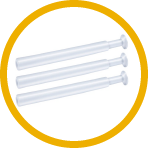
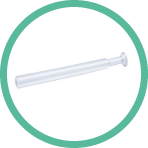
ajustes cliente

diff --git a/src/components/slideThree/PageOne.vue b/src/components/slideThree/PageOne.vue
@@ -30,8 +30,8 @@
     
     <div class="box-container">
       <svg class="curved-line" width="100" height="100" viewBox="0 0 100 100" fill="none" xmlns="http://www.w3.org/2000/svg" style="transform: translate(193%, -93%) scale(1.60);">
-        <path d="M20 80 V20 H90" stroke="#EEAF00" stroke-width="2" fill="transparent"/>
-        <circle cx="90" cy="20" r="5" fill="#EEAF00" stroke="#b68e22" stroke-width="2"/>
+        <path d="M20 80 V20 H90" stroke="#41bba9" stroke-width="2" fill="transparent"/>
+        <circle cx="90" cy="20" r="5" fill="#41bba9" stroke="#9dddd3" stroke-width="2"/>
       </svg>
       <div class="box">
         <img src="../../assets/beneficios-productos/icon13.png" alt="box3" class="box-image" />
@@ -55,15 +55,15 @@
         <p class="box-text"><strong>Alivia: <br> Mal olor</strong></p>
       </div>
       <svg class="" width="100" height="100" viewBox="0 0 100 100" fill="none" xmlns="http://www.w3.org/2000/svg" style="transform: translate(-293%, -96%) scale(1.6);">
-        <path d="M80 80 V20 H70" stroke="#EEAF00" stroke-width="2" fill="transparent"/>
-        <circle cx="70" cy="20" r="5" fill="#EEAF00" stroke="#b68e22" stroke-width="2"/>
+        <path d="M80 80 V20 H70" stroke="#41bba9" stroke-width="2" fill="transparent"/>
+        <circle cx="70" cy="20" r="5" fill="#41bba9" stroke="#9dddd3" stroke-width="2"/>
       </svg>
     </div>
 
     <div class="button-group">
-      <button @click="setActiveTab('benefits')">Beneficios</button>
-      <button @click="setActiveTab('usage')">Modo de uso</button>
-      <button @click="setActiveTab('composition')">Composición</button>
+      <button @click="setActiveTab('usage')">Modo de uso</button> <!-- Beneficios -->
+      <button @click="setActiveTab('benefits')">Recomendaciones</button> <!-- Modo de uso -->
+      <button @click="setActiveTab('composition')">Composición</button> <!-- Composición -->
     </div>
     <div v-if="activeTab" class="content-tab">
       <div class="tab-header">
@@ -74,10 +74,11 @@
         </button>
       </div>
 
-      <p v-if="activeTab === 'benefits'" class="text-tab">
-        INTIBON® 45+ Gel Hidratante íntimo que contiene ácido hialurónico, Vitamina E y un complejo hidratante, ayudan a brindar un efecto de hidratación y sensación de bienestar en tu zona íntima externa. <strong>No altera el pH fisiológico de la zona y no mancha la ropa interior.</strong>
+      <p v-if="activeTab === 'usage'" class="text-tab">
+        Aplicar un óvulo vaginal en la noche a la hora de acostarse, en administración única, introducido en la vagina profundamente, preferiblemente acostada. Si los síntomas persisten más de 3 días, se puede administrar un segundo óvulo vaginal. Si los síntomas persisten más allá de 7 días, se debe buscar consejo médico. Previsto para ser utilizado por mujeres adultas de 18 a 60 años.
       </p>
-      <p v-if="activeTab === 'usage'">Aplicar un óvulo vaginal en la noche a la hora de acostarse, en administración única, introducido en la vagina profundamente, preferiblemente acostada. Si los síntomas persisten más de 3 días, se puede administrar un segundo óvulo vaginal. Si los síntomas persisten más allá de 7 días, se debe buscar consejo médico. Previsto para ser utilizado por mujeres adultas de 18 a 60 años. <br><br><strong>Recomendaciones:</strong> Use Intibon Medical® óvulo vaginal durante 1 día. El óvulo vaginal debe aplicarse en la noche al acostarse a dormir. Intibon Medical® óvulo vaginal funcionará mejor sí usted no se levanta después de aplicarlo excepto para lavarse las manos. Usted puede usar una toalla higiénica mientras usa el óvulo vaginal para proteger su ropa de las manchas. No se deben usar tampones, duchas intravaginales, espermicidas u otros productos vaginales mientras se utilice este medicamento. No se recomienda iniciar el tratamiento durante la menstruación. El tratamiento debe haber finalizado antes del inicio de la menstruación. Mantenga este medicamento almacenado fuera del alcance de los niños.
+      <p v-if="activeTab === 'benefits'">
+        Use Intibon Medical® óvulo vaginal durante 1 día. El óvulo vaginal debe aplicarse en la noche al acostarse a dormir. Intibon Medical® óvulo vaginal funcionará mejor sí usted no se levanta después de aplicarlo excepto para lavarse las manos. Usted puede usar una toalla higiénica mientras usa el óvulo vaginal para proteger su ropa de las manchas. No se deben usar tampones, duchas intravaginales, espermicidas u otros productos vaginales mientras se utilice este medicamento. No se recomienda iniciar el tratamiento durante la menstruación. El tratamiento debe haber finalizado antes del inicio de la menstruación. Mantenga este medicamento almacenado fuera del alcance de los niños.
       </p>
       <p v-if="activeTab === 'composition'">Clotrimazol 500mg</p>
     </div>
@@ -219,7 +220,7 @@ export default {
   position: absolute;
   width: 94px;
   height: 2px;
-  background-color: #EEAF00;
+  background-color: #41BBA9;
   /* top: 50%;
   transform: translateY(-50%); */
 }
@@ -229,8 +230,8 @@ export default {
   position: absolute;
   width: 20px;
   height: 20px;
-  background-color: #EEAF00;
-  border: 2px solid #b68e22;
+  background-color: #41BBA9;
+  border: 2px solid #9dddd3;
   border-radius: 50%;
   top: 50%;
   transform: translateY(-50%);

diff --git a/src/components/slideTwo/PageOne.vue b/src/components/slideTwo/PageOne.vue
@@ -15,14 +15,14 @@
       <div class="image-container">
         <div class="container-item">
           <div class="box top-left" style="flex-direction: row; width: 302px;">
-            <p>Ayuda a lograr un efecto inmediato y duradero <strong>combatiendo los síntomas de la sequedad vulvovaginal.</strong></p>
-            <img src="../../assets/beneficios-productos/icon6.png" alt="Hidrosense" />
+            <p>Ayuda a brindar un efecto de hidratación y sensación de bienestar en tu zona íntima externa.</p>
+            <img src="../../assets/beneficios-productos/icon9.png" alt="Hidrosense" />
             <span class="line right"></span>
           </div>
 
           <div class="box top-left" style="flex-direction: row;">
             <p><strong>No altera el pH fisiológico </strong>de la zona vaginal y no mancha la ropa interior. No es agresivo al látex.</p>
-            <img src="../../assets/beneficios-productos/icon7.png" alt="Hidrosense" />
+            <img src="../../assets/beneficios-productos/icon6.png" alt="Hidrosense" />
             <span class="line right"></span>
           </div>
 
@@ -44,17 +44,17 @@
           </div>
 
           <div class="box top-right">
-            <img src="../../assets/beneficios-productos/icon10.png" alt="Sin Parabenos" />
+            <img src="../../assets/beneficios-productos/icon7.png" alt="Sin Parabenos" />
             <p>Libre de <strong>estrógenos, fragancias y parabenos.</strong></p>
             <span class="line left"></span>
           </div>
 
           <!-- Contenedor inferior derecho -->
-          <div class="box bottom-right">
-            <img src="../../assets/beneficios-productos/icon9.png" alt="No irrita ojos" /> <!-- style="transform: translate(3%, 5%) scale(1.30);" -->
+          <!-- <div class="box bottom-right">
+            <img src="../../assets/beneficios-productos/icon9.png" alt="No irrita ojos" />
             <p>Incluye 10 cánulas reutilizables: <strong>proceso suave y cómodo.</strong></p>
             <span class="line left"></span>
-          </div>
+          </div> -->
         </div>
       </div>
       <!-- Contenedor superior derecho -->
@@ -76,27 +76,14 @@
       </div>
 
       <p v-if="activeTab === 'benefits'" class="text-tab">
-        INTIBON® 45+ Gel Hidratante Vaginal  que contiene Ácido Hialurónico, Vitamina E y un complejo hidratante, que ayuda a lograr un efecto inmediato y duradero de hidratación combatiendo los síntomas de la sequedad vulvovaginal. No altera el pH fisiológico de la zona vaginal y no mancha la ropa interior. Es compatible con condones de látex.
+        INTIBON® 45+ Gel Hidratante íntimo contiene ácido hialurónico, Vitamina E y un complejo hidratante que ayudan a brindar un efecto de hidratación y sensación de bienestar en tu zona íntima externa. No altera el pH fisiológico de la zona y no mancha la ropa interior.
       </p>
-      <p v-if="activeTab === 'usage'"><strong>Lavar las manos antes y después del uso del producto.</strong><br>
-        <strong>Para uso en la zona vaginal:</strong> <br>   
-        <strong>1.</strong> Retira la tapa del tubo y el sello de seguridad. <br>
-        <strong>2.</strong> Toma una de las cánulas incluidas en el empaque. <br>
-        <strong>3.</strong> Enrosque la cánula en la boca del tubo. <br>
-        <strong>4.</strong> Retira la ropa interior. <br>
-        <strong>5.</strong> Hazte en una posición cómoda para ingresar el producto en la zona vaginal. <br>
-        <strong>6.</strong> Introduce la cánula en la vagina. <br>
-        <strong>7.</strong> Aprieta el tubo colapsible y aplica la cantidad deseada de gel hidratante en tu zona vaginal. <br>
-        <strong>8.</strong> Retira la cánula de la vagina. <br>
-        <strong>9.</strong> Desacopla la cánula del tubo vuelve a taparlo. <br>
-        <strong>10.</strong> Desecha la cánula. <br><br>
-        <strong>Para uso en la zona vulvar:</strong> <br>
-        <strong>1.</strong> Retire la tapa del tubo y el sello de seguridad. <br>
-        <strong>2.</strong> Aprieta el tubo colapsible y aplica la cantidad deseada de gel hidratante vaginal en tus dedos. <br>
-        <strong>3.</strong> Extiende el producto sobre la zona vulvar.<br>
-        <strong>4.</strong> Vuelve a tapar el tubo.
+      <p v-if="activeTab === 'usage'">
+        SOLO PARA USO EXTERNO. Retire la tapa del tubo y el sello de seguridad. Aprieta el tubo colapsible y aplica la cantidad deseada de gel hidratante íntimo en tus dedos. Extiende el producto sobre la zona vulvar. Vuelve a tapar el tubo.
       </p>
-      <p v-if="activeTab === 'composition'">Aqua (Water), Glycerin, Sodium Benzoate, Potassium Sorbate, Hydroxyethylcellulose, Aqua (Water) / Glycerin / Glyceryl Polyacrylate / Trehalose / Urea / Serine / Pentylene Glycol / Algin / Caprylyl Glycol / Sodium Hyaluronate / Pullulan / Disodium Phosphate / Potassium Phosphate, Sodium Hyaluronate, Tocopheryl Acetate, Lactic Acid.</p>
+      <p v-if="activeTab === 'composition'">
+        Water, Glycerin,Hydroxyethylcellulose, Water/Glycerin, Glyceryl Polyacrylate/Trehalose/Urea/Serine/Pentylene Glycol/Algin/Caprylyl Glycol/Sodium Hyaluronate/Pollulan/Disodium Phospate/Potassium Phospate, Sodium Hyaluronate, Sodium Benzoate, Potassium Sorbate, Tocopheryl Acetate, Lactic Acid.
+      </p>
     </div>
 
     <footer>

diff --git a/src/components/slideThree/PageTwo.vue b/src/components/slideThree/PageTwo.vue
@@ -30,8 +30,8 @@
     
     <div class="box-container">
       <svg class="curved-line" width="100" height="100" viewBox="0 0 100 100" fill="none" xmlns="http://www.w3.org/2000/svg" style="transform: translate(193%, -93%) scale(1.60);">
-        <path d="M20 80 V20 H90" stroke="#EEAF00" stroke-width="2" fill="transparent"/>
-        <circle cx="90" cy="20" r="5" fill="#EEAF00" stroke="#b68e22" stroke-width="2"/>
+        <path d="M20 80 V20 H90" stroke="#41bba9" stroke-width="2" fill="transparent"/>
+        <circle cx="90" cy="20" r="5" fill="#41bba9" stroke="#9dddd3" stroke-width="2"/>
       </svg>
       <div class="box">
         <img src="../../assets/beneficios-productos/icon13.png" alt="box3" class="box-image" />
@@ -55,8 +55,8 @@
         <p class="box-text"><strong>Alivia: <br> Mal olor</strong></p>
       </div>
       <svg class="" width="100" height="100" viewBox="0 0 100 100" fill="none" xmlns="http://www.w3.org/2000/svg" style="transform: translate(-293%, -96%) scale(1.6);">
-        <path d="M80 80 V20 H70" stroke="#EEAF00" stroke-width="2" fill="transparent"/>
-        <circle cx="70" cy="20" r="5" fill="#EEAF00" stroke="#b68e22" stroke-width="2"/>
+        <path d="M80 80 V20 H70" stroke="#41bba9" stroke-width="2" fill="transparent"/>
+        <circle cx="70" cy="20" r="5" fill="#41bba9" stroke="#9dddd3" stroke-width="2"/>
       </svg>
     </div>
 
@@ -75,10 +75,10 @@
       </div>
 
       <p v-if="activeTab === 'benefits'" class="text-tab">
-        INTIBON® 45+ Gel Hidratante íntimo que contiene ácido hialurónico, Vitamina E y un complejo hidratante, ayudan a brindar un efecto de hidratación y sensación de bienestar en tu zona íntima externa. <strong>No altera el pH fisiológico de la zona y no mancha la ropa interior.</strong>
+        Elimina la infección vaginal causada por hongos.
       </p>
       <p v-if="activeTab === 'usage'">
-        Uso diario. Aplique cantidad suficiente sobre la zona genital externa, frote suavemente y enjuague con abundante agua.
+        Aplicar una carga del dispositivo intravaginal (5 g) una vez al día preferiblemente por la noche antes de acostarse, durante 3 días consecutivos. La crema debe ser introducida profundamente en la vagina.
       </p>
       <p v-if="activeTab === 'composition'">Clotrimazol 2%</p>
     </div>
@@ -220,7 +220,7 @@ export default {
   position: absolute;
   width: 94px;
   height: 2px;
-  background-color: #EEAF00;
+  background-color: #41BBA9;
   /* top: 50%;
   transform: translateY(-50%); */
 }
@@ -230,8 +230,8 @@ export default {
   position: absolute;
   width: 20px;
   height: 20px;
-  background-color: #EEAF00;
-  border: 2px solid #b68e22;
+  background-color: #41BBA9;
+  border: 2px solid #9dddd3;
   border-radius: 50%;
   top: 50%;
   transform: translateY(-50%);

diff --git a/src/components/slideTwo/PageThree.vue b/src/components/slideTwo/PageThree.vue
@@ -29,7 +29,7 @@
           <!-- Contenedor inferior izquierdo -->
           <div class="box bottom-left" style="flex-direction: row;">
             <p >Hipoalergénico, ginecológica y dermatológicamente testeado.</p>
-            <img src="../../assets/beneficios-productos/icon8.png" alt="Algodón" />
+            <img src="../../assets/beneficios-productos/icon10.png" alt="Algodón" />
             <span class="line right"></span>
           </div>
         </div>
@@ -38,14 +38,14 @@
         
         <div>
           <div class="box top-right">
-            <img src="../../assets/beneficios-productos/icon9.png" alt="Sin Parabenos" />
+            <img src="../../assets/beneficios-productos/icon8.png" alt="Sin Parabenos" />
             <p>Ayuda a facilitar <br> las relaciones sexuales.</p>
             <span class="line left"></span>
           </div>
 
           <!-- Contenedor inferior derecho -->
           <div class="box bottom-right">
-            <img src="../../assets/beneficios-productos/icon10.png" alt="No irrita ojos" /> <!-- style="transform: translate(3%, 5%) scale(1.30);" -->
+            <img src="../../assets/beneficios-productos/icon7.png" alt="No irrita ojos" /> <!-- style="transform: translate(3%, 5%) scale(1.30);" -->
             <p>Libre de fragancias, colorantes, <br>parabenos y sin estrógenos.</p>
             <span class="line left"></span>
           </div>
@@ -73,7 +73,7 @@
         INTIBON® 45+ Gel Lubricante Íntimo indicado para facilitar las relaciones sexuales y evitar la incomodidad generada por la resequedad de la zona íntima. No altera el pH de la zona vaginal y no mancha la ropa interior. No es agresivo al látex. Libre de fragancias, colorantes, parabenos y sin estrógenos. 
       </p>
       <p v-if="activeTab === 'usage'">Aplicar la cantidad deseada de lubricante sobre la zona íntima o directamente sobre el condón. Aplique nuevamente si es necesario. Vuelva a tapar después de usarse. Gel lubricante para uso en genitales externos.</p>
-      <p v-if="activeTab === 'composition'">Aqua (Water), Glycerin, Sodium Benzoate, Potassium Sorbate, Hydroxyethylcellulose, Lactic Acid.</p>
+      <p v-if="activeTab === 'composition'">(Water), Glycerin, Sodium Benzoate, Potassium Sorbate, Hydroxyethylcellulose, Lactic Acid.</p>
     </div>
 
     <footer>

diff --git a/src/components/slideTwo/PageTwo.vue b/src/components/slideTwo/PageTwo.vue
@@ -38,14 +38,14 @@
         
         <div>
           <div class="box top-right">
-            <img src="../../assets/beneficios-productos/icon9.png" alt="Sin Parabenos" />
+            <img src="../../assets/beneficios-productos/icon10.png" alt="Sin Parabenos" />
             <p>Hipoalergénico, ginecológica y dermatológicamente testeado.</p>
             <span class="line left"></span>
           </div>
 
           <!-- Contenedor inferior derecho -->
           <div class="box bottom-right">
-            <img src="../../assets/beneficios-productos/icon10.png" alt="No irrita ojos" /> <!-- style="transform: translate(3%, 5%) scale(1.30);" -->
+            <img src="../../assets/beneficios-productos/icon9.png" alt="No irrita ojos" /> <!-- style="transform: translate(3%, 5%) scale(1.30);" -->
             <p>Extracto de caléndula que brinda <strong>hidratación.</strong></p>
             <span class="line left"></span>
           </div>
